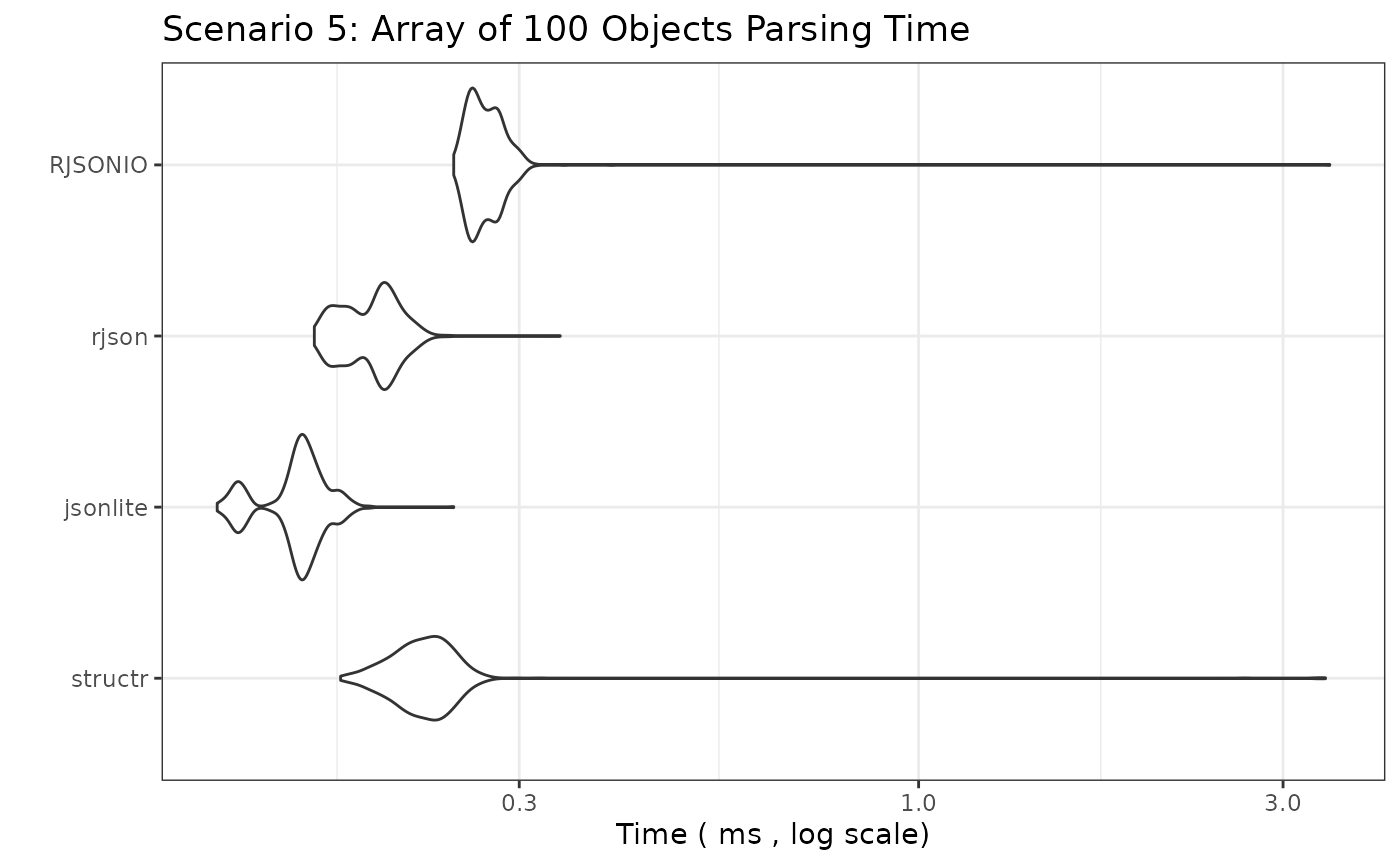
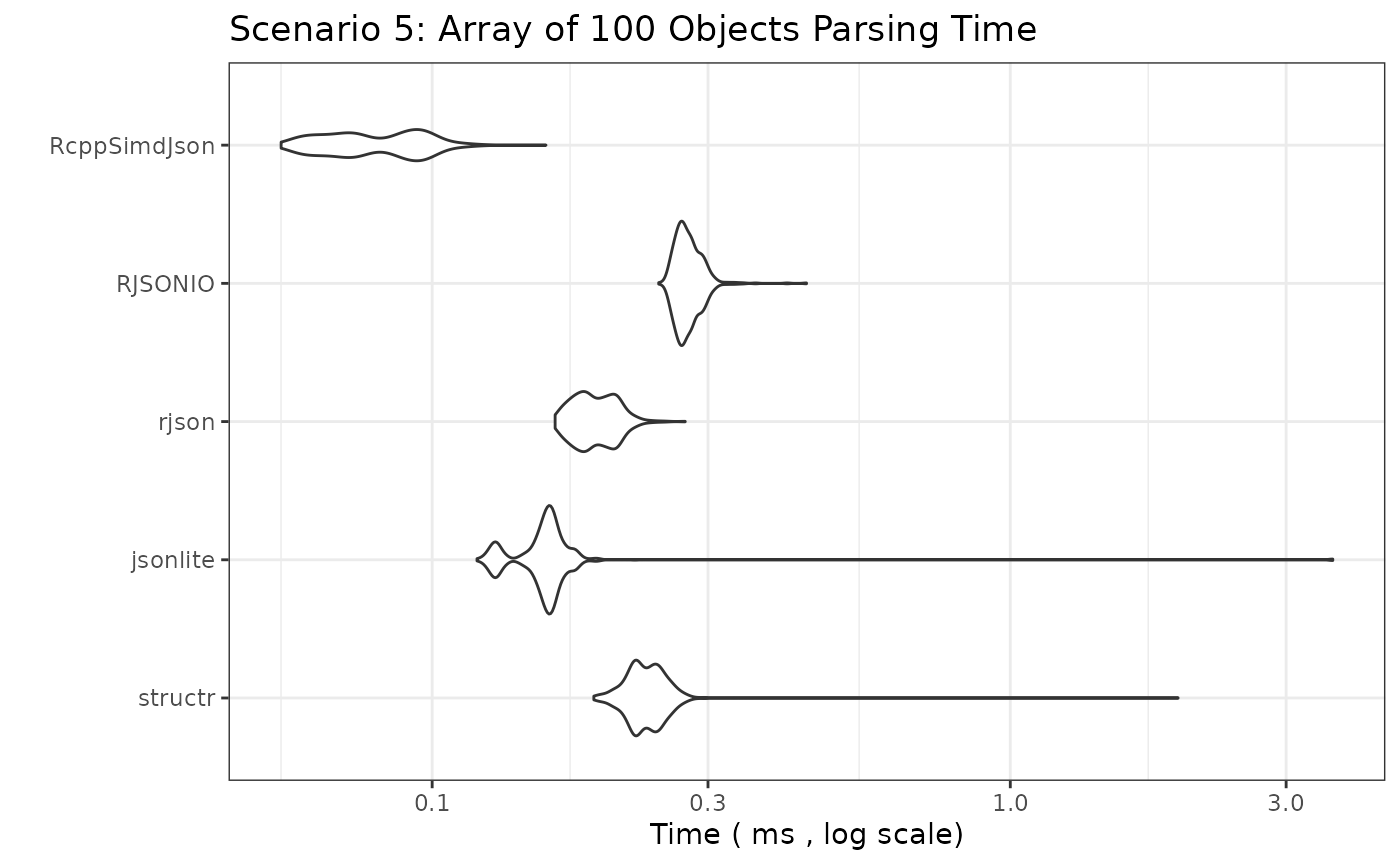
Deploying to gh-pages from @ ixpantia/structr@df5ad7ff1a682a92d8cae94fbe40ca63a35b29c2 🚀

diff --git a/articles/bench.html b/articles/bench.html
@@ -148,6 +148,7 @@ speed.</p>
 <span>  jsonlite <span class="op">=</span> <span class="fu">jsonlite</span><span class="fu">::</span><span class="fu"><a href="https://jeroen.r-universe.dev/jsonlite/reference/fromJSON.html" class="external-link">fromJSON</a></span><span class="op">(</span><span class="va">json_simple_object</span>, simplifyDataFrame <span class="op">=</span> <span class="cn">FALSE</span><span class="op">)</span>,</span>
 <span>  rjson <span class="op">=</span> <span class="fu">rjson</span><span class="fu">::</span><span class="fu"><a href="https://rdrr.io/pkg/rjson/man/fromJSON.html" class="external-link">fromJSON</a></span><span class="op">(</span><span class="va">json_simple_object</span><span class="op">)</span>,</span>
 <span>  RJSONIO <span class="op">=</span> <span class="fu">RJSONIO</span><span class="fu">::</span><span class="fu"><a href="https://rdrr.io/pkg/RJSONIO/man/fromJSON.html" class="external-link">fromJSON</a></span><span class="op">(</span><span class="va">json_simple_object</span>, simplify <span class="op">=</span> <span class="cn">FALSE</span><span class="op">)</span>,</span>
+<span>  RcppSimdJson <span class="op">=</span> <span class="fu">RcppSimdJson</span><span class="fu">::</span><span class="fu"><a href="https://rdrr.io/pkg/RcppSimdJson/man/fparse.html" class="external-link">fparse</a></span><span class="op">(</span><span class="va">json_simple_object</span><span class="op">)</span>,</span>
 <span>  times <span class="op">=</span> <span class="va">benchmark_times_fast</span>, unit <span class="op">=</span> <span class="va">benchmark_unit_fast</span>, check <span class="op">=</span> <span class="st">"equal"</span></span>
 <span><span class="op">)</span></span>
 <span><span class="fu">print_and_plot</span><span class="op">(</span><span class="va">bm_simple_object</span>,</span>
@@ -155,11 +156,12 @@ speed.</p>
 <span>  y_label <span class="op">=</span> <span class="fu"><a href="https://rdrr.io/r/base/paste.html" class="external-link">paste</a></span><span class="op">(</span><span class="st">"Time ("</span>, <span class="va">benchmark_unit_fast</span>, <span class="st">", log scale)"</span><span class="op">)</span></span>
 <span><span class="op">)</span></span></code></pre></div>
 <pre><code><span><span class="co">## Unit: microseconds</span></span>
-<span><span class="co">##      expr    min      lq      mean  median     uq      max neval</span></span>
-<span><span class="co">##   structr  4.649  6.4770  8.395685  8.4410  9.678   29.726  1000</span></span>
-<span><span class="co">##  jsonlite 41.277 47.5690 54.801872 52.1870 60.027  161.010  1000</span></span>
-<span><span class="co">##     rjson 27.993 35.0455 40.290231 39.4890 43.080   91.581  1000</span></span>
-<span><span class="co">##   RJSONIO 33.081 41.1965 48.815744 45.2445 49.793 2596.534  1000</span></span></code></pre>
+<span><span class="co">##          expr    min     lq      mean  median      uq      max neval</span></span>
+<span><span class="co">##       structr  4.899  7.454  9.192114  9.1870 10.2645   38.442  1000</span></span>
+<span><span class="co">##      jsonlite 42.399 51.025 59.962012 54.5110 63.6435 2847.625  1000</span></span>
+<span><span class="co">##         rjson 28.804 36.704 42.250469 41.1210 45.7100  110.446  1000</span></span>
+<span><span class="co">##       RJSONIO 34.715 43.596 49.035002 48.2100 53.1395  127.799  1000</span></span>
+<span><span class="co">##  RcppSimdJson 20.879 27.782 32.505742 31.2435 35.5915   66.213  1000</span></span></code></pre>
 <p><img src="bench_files/figure-html/bm_simple_object-1.png" width="700" style="display: block; margin: auto;"></p>
 </div>
 <div class="section level3">
@@ -171,6 +173,7 @@ speed.</p>
 <span>  jsonlite <span class="op">=</span> <span class="fu">jsonlite</span><span class="fu">::</span><span class="fu"><a href="https://jeroen.r-universe.dev/jsonlite/reference/fromJSON.html" class="external-link">fromJSON</a></span><span class="op">(</span><span class="va">json_simple_array_int</span><span class="op">)</span>, <span class="co"># simplify = TRUE default good here</span></span>
 <span>  rjson <span class="op">=</span> <span class="fu">rjson</span><span class="fu">::</span><span class="fu"><a href="https://rdrr.io/pkg/rjson/man/fromJSON.html" class="external-link">fromJSON</a></span><span class="op">(</span><span class="va">json_simple_array_int</span><span class="op">)</span>,</span>
 <span>  RJSONIO <span class="op">=</span> <span class="fu">RJSONIO</span><span class="fu">::</span><span class="fu"><a href="https://rdrr.io/pkg/RJSONIO/man/fromJSON.html" class="external-link">fromJSON</a></span><span class="op">(</span><span class="va">json_simple_array_int</span><span class="op">)</span>, <span class="co"># simplify = TRUE default good here</span></span>
+<span>  RcppSimdJson <span class="op">=</span> <span class="fu">RcppSimdJson</span><span class="fu">::</span><span class="fu"><a href="https://rdrr.io/pkg/RcppSimdJson/man/fparse.html" class="external-link">fparse</a></span><span class="op">(</span><span class="va">json_simple_array_int</span><span class="op">)</span>,</span>
 <span>  times <span class="op">=</span> <span class="va">benchmark_times_fast</span>, unit <span class="op">=</span> <span class="va">benchmark_unit_fast</span>, check <span class="op">=</span> <span class="st">"equal"</span></span>
 <span><span class="op">)</span></span>
 <span></span>
@@ -179,11 +182,12 @@ speed.</p>
 <span>  y_label <span class="op">=</span> <span class="fu"><a href="https://rdrr.io/r/base/paste.html" class="external-link">paste</a></span><span class="op">(</span><span class="st">"Time ("</span>, <span class="va">benchmark_unit_fast</span>, <span class="st">", log scale)"</span><span class="op">)</span></span>
 <span><span class="op">)</span></span></code></pre></div>
 <pre><code><span><span class="co">## Unit: microseconds</span></span>
-<span><span class="co">##      expr    min      lq      mean  median     uq      max neval</span></span>
-<span><span class="co">##   structr  3.807  5.8860  7.198468  7.3085  8.471   30.096  1000</span></span>
-<span><span class="co">##  jsonlite 31.959 37.0695 41.257056 40.1050 42.584   99.556  1000</span></span>
-<span><span class="co">##     rjson 31.979 36.4380 42.193361 42.3040 44.729  109.765  1000</span></span>
-<span><span class="co">##   RJSONIO 44.343 50.7700 59.598124 54.4110 57.507 3603.843  1000</span></span></code></pre>
+<span><span class="co">##          expr    min      lq      mean  median      uq      max neval</span></span>
+<span><span class="co">##       structr  3.937  5.9410  7.602014  7.6945  8.6560   29.224  1000</span></span>
+<span><span class="co">##      jsonlite 33.182 38.4470 42.046634 41.5980 43.8420  110.086  1000</span></span>
+<span><span class="co">##         rjson 32.020 38.2720 43.332645 43.7065 46.3565  125.154  1000</span></span>
+<span><span class="co">##       RJSONIO 45.365 53.2790 57.743020 57.4830 60.6785  143.798  1000</span></span>
+<span><span class="co">##  RcppSimdJson 21.360 25.9235 32.863819 29.9560 32.0050 3394.946  1000</span></span></code></pre>
 <p><img src="bench_files/figure-html/bm_simple_array_int-1.png" width="700" style="display: block; margin: auto;"></p>
 </div>
 <div class="section level3">
@@ -195,6 +199,7 @@ speed.</p>
 <span>  jsonlite <span class="op">=</span> <span class="fu">jsonlite</span><span class="fu">::</span><span class="fu"><a href="https://jeroen.r-universe.dev/jsonlite/reference/fromJSON.html" class="external-link">fromJSON</a></span><span class="op">(</span><span class="va">json_simple_array_str</span><span class="op">)</span>,</span>
 <span>  rjson <span class="op">=</span> <span class="fu">rjson</span><span class="fu">::</span><span class="fu"><a href="https://rdrr.io/pkg/rjson/man/fromJSON.html" class="external-link">fromJSON</a></span><span class="op">(</span><span class="va">json_simple_array_str</span><span class="op">)</span>,</span>
 <span>  RJSONIO <span class="op">=</span> <span class="fu">RJSONIO</span><span class="fu">::</span><span class="fu"><a href="https://rdrr.io/pkg/RJSONIO/man/fromJSON.html" class="external-link">fromJSON</a></span><span class="op">(</span><span class="va">json_simple_array_str</span><span class="op">)</span>,</span>
+<span>  RcppSimdJson <span class="op">=</span> <span class="fu">RcppSimdJson</span><span class="fu">::</span><span class="fu"><a href="https://rdrr.io/pkg/RcppSimdJson/man/fparse.html" class="external-link">fparse</a></span><span class="op">(</span><span class="va">json_simple_array_str</span><span class="op">)</span>,</span>
 <span>  times <span class="op">=</span> <span class="va">benchmark_times_fast</span>, unit <span class="op">=</span> <span class="va">benchmark_unit_fast</span>, check <span class="op">=</span> <span class="st">"equal"</span></span>
 <span><span class="op">)</span></span>
 <span></span>
@@ -203,11 +208,12 @@ speed.</p>
 <span>  y_label <span class="op">=</span> <span class="fu"><a href="https://rdrr.io/r/base/paste.html" class="external-link">paste</a></span><span class="op">(</span><span class="st">"Time ("</span>, <span class="va">benchmark_unit_fast</span>, <span class="st">", log scale)"</span><span class="op">)</span></span>
 <span><span class="op">)</span></span></code></pre></div>
 <pre><code><span><span class="co">## Unit: microseconds</span></span>
-<span><span class="co">##      expr    min      lq      mean  median      uq      max neval</span></span>
-<span><span class="co">##   structr  4.268  5.8410  7.034094  7.0930  8.0750   27.782  1000</span></span>
-<span><span class="co">##  jsonlite 24.516 28.0275 31.663562 31.8290 33.4170   80.381  1000</span></span>
-<span><span class="co">##     rjson 28.433 32.0850 37.249660 37.7850 40.4955  111.187  1000</span></span>
-<span><span class="co">##   RJSONIO 38.883 43.0300 51.376313 47.8845 51.1305 3121.624  1000</span></span></code></pre>
+<span><span class="co">##          expr    min      lq      mean  median      uq      max neval</span></span>
+<span><span class="co">##       structr  4.168  6.1820  7.447508  7.5695  8.5610   27.592  1000</span></span>
+<span><span class="co">##      jsonlite 25.678 30.7525 33.796142 33.7730 35.7420   75.942  1000</span></span>
+<span><span class="co">##         rjson 29.916 36.0470 39.912853 40.1700 42.6600  123.561  1000</span></span>
+<span><span class="co">##       RJSONIO 40.135 48.1550 52.213798 51.9475 54.7625  153.215  1000</span></span>
+<span><span class="co">##  RcppSimdJson 21.350 26.3035 33.103361 29.8655 32.0300 3300.308  1000</span></span></code></pre>
 <p><img src="bench_files/figure-html/bm_simple_array_str-1.png" width="700" style="display: block; margin: auto;"></p>
 </div>
 <div class="section level3">
@@ -220,6 +226,7 @@ speed.</p>
 <span>    jsonlite <span class="op">=</span> <span class="fu">jsonlite</span><span class="fu">::</span><span class="fu"><a href="https://jeroen.r-universe.dev/jsonlite/reference/fromJSON.html" class="external-link">fromJSON</a></span><span class="op">(</span><span class="va">json_nested_object</span>, simplifyVector <span class="op">=</span> <span class="cn">FALSE</span><span class="op">)</span>,</span>
 <span>    rjson <span class="op">=</span> <span class="fu">rjson</span><span class="fu">::</span><span class="fu"><a href="https://rdrr.io/pkg/rjson/man/fromJSON.html" class="external-link">fromJSON</a></span><span class="op">(</span><span class="va">json_nested_object</span><span class="op">)</span>,</span>
 <span>    RJSONIO <span class="op">=</span> <span class="fu">RJSONIO</span><span class="fu">::</span><span class="fu"><a href="https://rdrr.io/pkg/RJSONIO/man/fromJSON.html" class="external-link">fromJSON</a></span><span class="op">(</span><span class="va">json_nested_object</span>, simplify <span class="op">=</span> <span class="cn">FALSE</span><span class="op">)</span>, <span class="co"># avoid matrix/df conversion</span></span>
+<span>    RcppSimdJson <span class="op">=</span> <span class="fu">RcppSimdJson</span><span class="fu">::</span><span class="fu"><a href="https://rdrr.io/pkg/RcppSimdJson/man/fparse.html" class="external-link">fparse</a></span><span class="op">(</span><span class="va">json_nested_object</span><span class="op">)</span>,</span>
 <span>    times <span class="op">=</span> <span class="va">benchmark_times_fast</span>, unit <span class="op">=</span> <span class="va">benchmark_unit_fast</span>, check <span class="op">=</span> <span class="cn">NULL</span> <span class="co"># Disable check due to potential minor diffs</span></span>
 <span>  <span class="op">)</span></span>
 <span></span>
@@ -228,11 +235,12 @@ speed.</p>
 <span>  y_label <span class="op">=</span> <span class="fu"><a href="https://rdrr.io/r/base/paste.html" class="external-link">paste</a></span><span class="op">(</span><span class="st">"Time ("</span>, <span class="va">benchmark_unit_fast</span>, <span class="st">", log scale)"</span><span class="op">)</span></span>
 <span><span class="op">)</span></span></code></pre></div>
 <pre><code><span><span class="co">## Unit: microseconds</span></span>
-<span><span class="co">##      expr    min      lq     mean  median     uq      max neval</span></span>
-<span><span class="co">##   structr 16.341 21.2650 24.43637 24.3905 26.349   73.718  1000</span></span>
-<span><span class="co">##  jsonlite 25.708 32.3155 36.77939 36.5680 38.912   73.006  1000</span></span>
-<span><span class="co">##     rjson 40.366 48.2750 54.99315 54.4270 57.833  117.209  1000</span></span>
-<span><span class="co">##   RJSONIO 53.760 61.6045 70.49977 65.7575 69.961 2861.799  1000</span></span></code></pre>
+<span><span class="co">##          expr    min      lq     mean  median      uq      max neval</span></span>
+<span><span class="co">##       structr 17.182 22.6925 25.59093 25.8335 27.6420   65.082  1000</span></span>
+<span><span class="co">##      jsonlite 26.309 33.3825 37.42539 37.1945 39.7240   74.660  1000</span></span>
+<span><span class="co">##         rjson 41.637 50.4490 59.35239 56.2650 60.1375 3142.535  1000</span></span>
+<span><span class="co">##       RJSONIO 54.912 64.5860 70.49367 69.6800 74.1590  182.951  1000</span></span>
+<span><span class="co">##  RcppSimdJson 28.844 36.5985 42.21154 42.6845 45.8955  131.105  1000</span></span></code></pre>
 <p><img src="bench_files/figure-html/bm_nested_object-1.png" width="700" style="display: block; margin: auto;"></p>
 </div>
 <div class="section level3">
@@ -245,18 +253,20 @@ speed.</p>
 <span>    jsonlite <span class="op">=</span> <span class="fu">jsonlite</span><span class="fu">::</span><span class="fu"><a href="https://jeroen.r-universe.dev/jsonlite/reference/fromJSON.html" class="external-link">fromJSON</a></span><span class="op">(</span><span class="va">json_array_of_objects</span>, simplifyVector <span class="op">=</span> <span class="cn">FALSE</span>, simplifyDataFrame <span class="op">=</span> <span class="cn">FALSE</span><span class="op">)</span>, <span class="co"># Force list output</span></span>
 <span>    rjson <span class="op">=</span> <span class="fu">rjson</span><span class="fu">::</span><span class="fu"><a href="https://rdrr.io/pkg/rjson/man/fromJSON.html" class="external-link">fromJSON</a></span><span class="op">(</span><span class="va">json_array_of_objects</span><span class="op">)</span>,</span>
 <span>    RJSONIO <span class="op">=</span> <span class="fu">RJSONIO</span><span class="fu">::</span><span class="fu"><a href="https://rdrr.io/pkg/RJSONIO/man/fromJSON.html" class="external-link">fromJSON</a></span><span class="op">(</span><span class="va">json_array_of_objects</span>, simplify <span class="op">=</span> <span class="cn">FALSE</span><span class="op">)</span>, <span class="co"># Results in list of lists</span></span>
-<span>    times <span class="op">=</span> <span class="va">benchmark_times_medium</span>, unit <span class="op">=</span> <span class="va">benchmark_unit_medium</span>, check <span class="op">=</span> <span class="st">"equal"</span></span>
+<span>    RcppSimdJson <span class="op">=</span> <span class="fu">RcppSimdJson</span><span class="fu">::</span><span class="fu"><a href="https://rdrr.io/pkg/RcppSimdJson/man/fparse.html" class="external-link">fparse</a></span><span class="op">(</span><span class="va">json_array_of_objects</span><span class="op">)</span>,</span>
+<span>    times <span class="op">=</span> <span class="va">benchmark_times_medium</span>, unit <span class="op">=</span> <span class="va">benchmark_unit_medium</span>, check <span class="op">=</span> <span class="cn">NULL</span></span>
 <span>  <span class="op">)</span></span>
 <span><span class="fu">print_and_plot</span><span class="op">(</span><span class="va">bm_array_of_objects</span>,</span>
 <span>  title <span class="op">=</span> <span class="st">"Scenario 5: Array of 100 Objects Parsing Time"</span>,</span>
 <span>  y_label <span class="op">=</span> <span class="fu"><a href="https://rdrr.io/r/base/paste.html" class="external-link">paste</a></span><span class="op">(</span><span class="st">"Time ("</span>, <span class="va">benchmark_unit_medium</span>, <span class="st">", log scale)"</span><span class="op">)</span></span>
 <span><span class="op">)</span></span></code></pre></div>
 <pre><code><span><span class="co">## Unit: milliseconds</span></span>
-<span><span class="co">##      expr      min        lq      mean    median        uq      max neval</span></span>
-<span><span class="co">##   structr 0.175087 0.2106885 0.2419952 0.2253005 0.2386860 3.409662   500</span></span>
-<span><span class="co">##  jsonlite 0.120685 0.1495185 0.1538387 0.1557910 0.1615565 0.246229   500</span></span>
-<span><span class="co">##     rjson 0.161752 0.1772310 0.1921014 0.1957400 0.2037255 0.339450   500</span></span>
-<span><span class="co">##   RJSONIO 0.246229 0.2596740 0.2775724 0.2684360 0.2809540 3.453713   500</span></span></code></pre>
+<span><span class="co">##          expr      min        lq       mean    median        uq      max neval</span></span>
+<span><span class="co">##       structr 0.190395 0.2228010 0.23824712 0.2333955 0.2468710 1.950821   500</span></span>
+<span><span class="co">##      jsonlite 0.119553 0.1506865 0.16896090 0.1581960 0.1632040 3.612822   500</span></span>
+<span><span class="co">##         rjson 0.163185 0.1785780 0.19213523 0.1903455 0.2051480 0.273982   500</span></span>
+<span><span class="co">##       RJSONIO 0.246510 0.2670930 0.27798624 0.2745125 0.2857430 0.444159   500</span></span>
+<span><span class="co">##  RcppSimdJson 0.054793 0.0670700 0.08055183 0.0769390 0.0937795 0.157353   500</span></span></code></pre>
 <p><img src="bench_files/figure-html/bm_array_of_objects-1.png" width="700" style="display: block; margin: auto;"></p>
 </div>
 <div class="section level3">
@@ -269,9 +279,10 @@ speed.</p>
 <span>    jsonlite <span class="op">=</span> <span class="fu">jsonlite</span><span class="fu">::</span><span class="fu"><a href="https://jeroen.r-universe.dev/jsonlite/reference/fromJSON.html" class="external-link">fromJSON</a></span><span class="op">(</span><span class="va">json_large_array_of_objects</span>, simplifyVector <span class="op">=</span> <span class="cn">FALSE</span>, simplifyDataFrame <span class="op">=</span> <span class="cn">FALSE</span><span class="op">)</span>,</span>
 <span>    rjson <span class="op">=</span> <span class="fu">rjson</span><span class="fu">::</span><span class="fu"><a href="https://rdrr.io/pkg/rjson/man/fromJSON.html" class="external-link">fromJSON</a></span><span class="op">(</span><span class="va">json_large_array_of_objects</span><span class="op">)</span>,</span>
 <span>    RJSONIO <span class="op">=</span> <span class="fu">RJSONIO</span><span class="fu">::</span><span class="fu"><a href="https://rdrr.io/pkg/RJSONIO/man/fromJSON.html" class="external-link">fromJSON</a></span><span class="op">(</span><span class="va">json_large_array_of_objects</span>, simplify <span class="op">=</span> <span class="cn">FALSE</span><span class="op">)</span>,</span>
+<span>    RcppSimdJson <span class="op">=</span> <span class="fu">RcppSimdJson</span><span class="fu">::</span><span class="fu"><a href="https://rdrr.io/pkg/RcppSimdJson/man/fparse.html" class="external-link">fparse</a></span><span class="op">(</span><span class="va">json_large_array_of_objects</span><span class="op">)</span>,</span>
 <span>    times <span class="op">=</span> <span class="va">benchmark_times_medium</span>,</span>
 <span>    unit <span class="op">=</span> <span class="va">benchmark_unit_medium</span>,</span>
-<span>    check <span class="op">=</span> <span class="st">"equal"</span> <span class="co"># Disable check</span></span>
+<span>    check <span class="op">=</span> <span class="cn">NULL</span> <span class="co"># Disable check</span></span>
 <span>  <span class="op">)</span></span>
 <span></span>
 <span><span class="fu">print_and_plot</span><span class="op">(</span><span class="va">bm_large_array_of_objects</span>,</span>
@@ -279,11 +290,12 @@ speed.</p>
 <span>  y_label <span class="op">=</span> <span class="fu"><a href="https://rdrr.io/r/base/paste.html" class="external-link">paste</a></span><span class="op">(</span><span class="st">"Time ("</span>, <span class="va">benchmark_unit_medium</span>, <span class="st">", log scale)"</span><span class="op">)</span></span>
 <span><span class="op">)</span></span></code></pre></div>
 <pre><code><span><span class="co">## Unit: milliseconds</span></span>
-<span><span class="co">##      expr      min       lq     mean   median       uq       max neval</span></span>
-<span><span class="co">##   structr 1.947503 2.250394 2.386582 2.319848 2.443223  6.454091   500</span></span>
-<span><span class="co">##  jsonlite 1.368383 1.397242 1.493211 1.420866 1.529540  5.536219   500</span></span>
-<span><span class="co">##     rjson 1.331274 1.378527 1.570004 1.410121 1.577103 10.269069   500</span></span>
-<span><span class="co">##   RJSONIO 2.008166 2.141761 2.249032 2.157755 2.331380  5.964568   500</span></span></code></pre>
+<span><span class="co">##          expr      min       lq      mean   median        uq       max neval</span></span>
+<span><span class="co">##       structr 2.152086 2.398340 2.6086492 2.511277 2.6441995 11.037206   500</span></span>
+<span><span class="co">##      jsonlite 1.381969 1.425505 1.5358536 1.461287 1.5505235  7.065805   500</span></span>
+<span><span class="co">##         rjson 1.360268 1.407532 1.5863846 1.440888 1.5403140 13.555296   500</span></span>
+<span><span class="co">##       RJSONIO 2.017324 2.187096 2.2980437 2.207324 2.2838425  8.475857   500</span></span>
+<span><span class="co">##  RcppSimdJson 0.330447 0.353275 0.4157574 0.375155 0.4127005  0.699966   500</span></span></code></pre>
 <p><img src="bench_files/figure-html/bm_large_array_of_objects-1.png" width="700" style="display: block; margin: auto;"></p>
 </div>
 <div class="section level3">
@@ -296,6 +308,7 @@ speed.</p>
 <span>    jsonlite <span class="op">=</span> <span class="fu">jsonlite</span><span class="fu">::</span><span class="fu"><a href="https://jeroen.r-universe.dev/jsonlite/reference/fromJSON.html" class="external-link">fromJSON</a></span><span class="op">(</span><span class="va">json_large_array_int</span><span class="op">)</span>,</span>
 <span>    rjson <span class="op">=</span> <span class="fu">rjson</span><span class="fu">::</span><span class="fu"><a href="https://rdrr.io/pkg/rjson/man/fromJSON.html" class="external-link">fromJSON</a></span><span class="op">(</span><span class="va">json_large_array_int</span><span class="op">)</span>,</span>
 <span>    RJSONIO <span class="op">=</span> <span class="fu">RJSONIO</span><span class="fu">::</span><span class="fu"><a href="https://rdrr.io/pkg/RJSONIO/man/fromJSON.html" class="external-link">fromJSON</a></span><span class="op">(</span><span class="va">json_large_array_int</span><span class="op">)</span>,</span>
+<span>    RcppSimdJson <span class="op">=</span> <span class="fu">RcppSimdJson</span><span class="fu">::</span><span class="fu"><a href="https://rdrr.io/pkg/RcppSimdJson/man/fparse.html" class="external-link">fparse</a></span><span class="op">(</span><span class="va">json_large_array_int</span><span class="op">)</span>,</span>
 <span>    times <span class="op">=</span> <span class="va">benchmark_times_medium</span>,</span>
 <span>    unit <span class="op">=</span> <span class="va">benchmark_unit_medium</span>,</span>
 <span>    check <span class="op">=</span> <span class="st">"equal"</span></span>
@@ -305,11 +318,12 @@ speed.</p>
 <span>  y_label <span class="op">=</span> <span class="fu"><a href="https://rdrr.io/r/base/paste.html" class="external-link">paste</a></span><span class="op">(</span><span class="st">"Time ("</span>, <span class="va">benchmark_unit_medium</span>, <span class="st">", log scale)"</span><span class="op">)</span></span>
 <span><span class="op">)</span></span></code></pre></div>
 <pre><code><span><span class="co">## Unit: milliseconds</span></span>
-<span><span class="co">##      expr      min       lq      mean   median       uq      max neval</span></span>
-<span><span class="co">##   structr 0.188993 0.193987 0.2085216 0.201326 0.222776 0.338812   500</span></span>
-<span><span class="co">##  jsonlite 2.470499 2.627267 2.7925804 2.694943 2.764498 9.652027   500</span></span>
-<span><span class="co">##     rjson 1.046262 1.067902 1.1576628 1.083326 1.108593 4.726378   500</span></span>
-<span><span class="co">##   RJSONIO 2.505254 2.540329 2.6257726 2.554791 2.577640 6.954906   500</span></span></code></pre>
+<span><span class="co">##          expr      min        lq      mean    median        uq       max neval</span></span>
+<span><span class="co">##       structr 0.188091 0.1969975 0.2115499 0.2035550 0.2262920  0.345995   500</span></span>
+<span><span class="co">##      jsonlite 2.370985 2.6537825 2.8519514 2.7527370 2.8374055  7.422822   500</span></span>
+<span><span class="co">##         rjson 1.054868 1.0819940 1.2088789 1.0966115 1.1247190 12.316904   500</span></span>
+<span><span class="co">##       RJSONIO 2.555058 2.5951530 2.6592767 2.6150400 2.6493690  7.498032   500</span></span>
+<span><span class="co">##  RcppSimdJson 0.190225 0.2030890 0.2219051 0.2122465 0.2383655  0.358719   500</span></span></code></pre>
 <p><img src="bench_files/figure-html/bm_large_array_int-1.png" width="700" style="display: block; margin: auto;"></p>
 </div>
 <div class="section level3">
@@ -322,6 +336,7 @@ speed.</p>
 <span>    jsonlite <span class="op">=</span> <span class="fu">jsonlite</span><span class="fu">::</span><span class="fu"><a href="https://jeroen.r-universe.dev/jsonlite/reference/fromJSON.html" class="external-link">fromJSON</a></span><span class="op">(</span><span class="va">json_large_array_str</span><span class="op">)</span>,</span>
 <span>    rjson <span class="op">=</span> <span class="fu">rjson</span><span class="fu">::</span><span class="fu"><a href="https://rdrr.io/pkg/rjson/man/fromJSON.html" class="external-link">fromJSON</a></span><span class="op">(</span><span class="va">json_large_array_str</span><span class="op">)</span>,</span>
 <span>    RJSONIO <span class="op">=</span> <span class="fu">RJSONIO</span><span class="fu">::</span><span class="fu"><a href="https://rdrr.io/pkg/RJSONIO/man/fromJSON.html" class="external-link">fromJSON</a></span><span class="op">(</span><span class="va">json_large_array_str</span><span class="op">)</span>,</span>
+<span>    RcppSimdJson <span class="op">=</span> <span class="fu">RcppSimdJson</span><span class="fu">::</span><span class="fu"><a href="https://rdrr.io/pkg/RcppSimdJson/man/fparse.html" class="external-link">fparse</a></span><span class="op">(</span><span class="va">json_large_array_str</span><span class="op">)</span>,</span>
 <span>    times <span class="op">=</span> <span class="va">benchmark_times_medium</span>,</span>
 <span>    unit <span class="op">=</span> <span class="va">benchmark_unit_medium</span>,</span>
 <span>    check <span class="op">=</span> <span class="st">"equal"</span></span>
@@ -331,11 +346,12 @@ speed.</p>
 <span>  y_label <span class="op">=</span> <span class="fu"><a href="https://rdrr.io/r/base/paste.html" class="external-link">paste</a></span><span class="op">(</span><span class="st">"Time ("</span>, <span class="va">benchmark_unit_medium</span>, <span class="st">", log scale)"</span><span class="op">)</span></span>
 <span><span class="op">)</span></span></code></pre></div>
 <pre><code><span><span class="co">## Unit: milliseconds</span></span>
-<span><span class="co">##      expr      min       lq      mean   median        uq       max neval</span></span>
-<span><span class="co">##   structr 0.681782 0.698719 0.7212037 0.713271 0.7383825  1.130850   500</span></span>
-<span><span class="co">##  jsonlite 2.235501 2.327653 2.4461236 2.395059 2.4672775  5.893465   500</span></span>
-<span><span class="co">##     rjson 1.345330 1.369525 1.6245735 1.400257 1.4221335 77.774182   500</span></span>
-<span><span class="co">##   RJSONIO 3.416083 3.458197 3.5595576 3.482142 3.5075890  7.231542   500</span></span></code></pre>
+<span><span class="co">##          expr      min        lq      mean   median       uq       max neval</span></span>
+<span><span class="co">##       structr 0.678697 0.6969955 0.7180350 0.707971 0.735342  0.995989   500</span></span>
+<span><span class="co">##      jsonlite 2.264105 2.4071720 2.6127171 2.523494 2.662444  7.775149   500</span></span>
+<span><span class="co">##         rjson 1.321045 1.3467430 1.4469878 1.374610 1.408038  6.642807   500</span></span>
+<span><span class="co">##       RJSONIO 3.487628 3.5259000 3.6823692 3.556998 3.595149 12.227528   500</span></span>
+<span><span class="co">##  RcppSimdJson 0.642259 0.6629230 0.6907722 0.679768 0.711623  1.058215   500</span></span></code></pre>
 <p><img src="bench_files/figure-html/bm_large_array_str-1.png" width="700" style="display: block; margin: auto;"></p>
 </div>
 <div class="section level3">
@@ -347,6 +363,7 @@ speed.</p>
 <span>  jsonlite <span class="op">=</span> <span class="fu">jsonlite</span><span class="fu">::</span><span class="fu"><a href="https://jeroen.r-universe.dev/jsonlite/reference/fromJSON.html" class="external-link">fromJSON</a></span><span class="op">(</span><span class="va">json_deep_nest</span>, simplifyVector <span class="op">=</span> <span class="cn">FALSE</span>, simplifyDataFrame <span class="op">=</span> <span class="cn">FALSE</span><span class="op">)</span>,</span>
 <span>  rjson <span class="op">=</span> <span class="fu">rjson</span><span class="fu">::</span><span class="fu"><a href="https://rdrr.io/pkg/rjson/man/fromJSON.html" class="external-link">fromJSON</a></span><span class="op">(</span><span class="va">json_deep_nest</span><span class="op">)</span>,</span>
 <span>  RJSONIO <span class="op">=</span> <span class="fu">RJSONIO</span><span class="fu">::</span><span class="fu"><a href="https://rdrr.io/pkg/RJSONIO/man/fromJSON.html" class="external-link">fromJSON</a></span><span class="op">(</span><span class="va">json_deep_nest</span>, simplify <span class="op">=</span> <span class="cn">FALSE</span><span class="op">)</span>,</span>
+<span>  RcppSimdJson <span class="op">=</span> <span class="fu">RcppSimdJson</span><span class="fu">::</span><span class="fu"><a href="https://rdrr.io/pkg/RcppSimdJson/man/fparse.html" class="external-link">fparse</a></span><span class="op">(</span><span class="va">json_deep_nest</span><span class="op">)</span>,</span>
 <span>  times <span class="op">=</span> <span class="va">benchmark_times_fast</span>,</span>
 <span>  unit <span class="op">=</span> <span class="va">benchmark_unit_fast</span>,</span>
 <span>  check <span class="op">=</span> <span class="st">"equal"</span></span>
@@ -356,11 +373,12 @@ speed.</p>
 <span>  y_label <span class="op">=</span> <span class="fu"><a href="https://rdrr.io/r/base/paste.html" class="external-link">paste</a></span><span class="op">(</span><span class="st">"Time ("</span>, <span class="va">benchmark_unit_fast</span>, <span class="st">", log scale)"</span><span class="op">)</span></span>
 <span><span class="op">)</span></span></code></pre></div>
 <pre><code><span><span class="co">## Unit: microseconds</span></span>
-<span><span class="co">##      expr    min     lq     mean  median      uq      max neval</span></span>
-<span><span class="co">##   structr 12.373 14.477 16.95470 16.7310 18.1685   49.522  1000</span></span>
-<span><span class="co">##  jsonlite 16.110 18.745 25.68532 21.9960 23.6240 3429.238  1000</span></span>
-<span><span class="co">##     rjson 28.674 34.054 39.57854 39.0170 41.7680  108.823  1000</span></span>
-<span><span class="co">##   RJSONIO 36.939 42.299 48.10787 46.7225 49.6825  123.510  1000</span></span></code></pre>
+<span><span class="co">##          expr    min      lq     mean  median      uq      max neval</span></span>
+<span><span class="co">##       structr 13.345 16.5555 18.33186 18.3640 19.5865   43.411  1000</span></span>
+<span><span class="co">##      jsonlite 17.523 20.7285 23.47486 23.3840 24.9120   77.855  1000</span></span>
+<span><span class="co">##         rjson 30.557 36.3530 45.14336 41.0320 43.5510 4354.416  1000</span></span>
+<span><span class="co">##       RJSONIO 38.973 46.3265 50.49376 50.4445 53.1045  136.164  1000</span></span>
+<span><span class="co">##  RcppSimdJson 23.775 28.7590 32.25526 32.2755 34.3790   75.952  1000</span></span></code></pre>
 <p><img src="bench_files/figure-html/bm_deep_nest-1.png" width="700" style="display: block; margin: auto;"></p>
 </div>
 <div class="section level3">
@@ -372,6 +390,7 @@ speed.</p>
 <span>  jsonlite <span class="op">=</span> <span class="fu">jsonlite</span><span class="fu">::</span><span class="fu"><a href="https://jeroen.r-universe.dev/jsonlite/reference/fromJSON.html" class="external-link">fromJSON</a></span><span class="op">(</span><span class="va">json_wide_object</span>, simplifyVector <span class="op">=</span> <span class="cn">FALSE</span>, simplifyDataFrame <span class="op">=</span> <span class="cn">FALSE</span><span class="op">)</span>,</span>
 <span>  rjson <span class="op">=</span> <span class="fu">rjson</span><span class="fu">::</span><span class="fu"><a href="https://rdrr.io/pkg/rjson/man/fromJSON.html" class="external-link">fromJSON</a></span><span class="op">(</span><span class="va">json_wide_object</span><span class="op">)</span>,</span>
 <span>  RJSONIO <span class="op">=</span> <span class="fu">RJSONIO</span><span class="fu">::</span><span class="fu"><a href="https://rdrr.io/pkg/RJSONIO/man/fromJSON.html" class="external-link">fromJSON</a></span><span class="op">(</span><span class="va">json_wide_object</span>, simplify <span class="op">=</span> <span class="cn">FALSE</span><span class="op">)</span>,</span>
+<span>  RcppSimdJson <span class="op">=</span> <span class="fu">RcppSimdJson</span><span class="fu">::</span><span class="fu"><a href="https://rdrr.io/pkg/RcppSimdJson/man/fparse.html" class="external-link">fparse</a></span><span class="op">(</span><span class="va">json_wide_object</span><span class="op">)</span>,</span>
 <span>  times <span class="op">=</span> <span class="va">benchmark_times_medium</span>,</span>
 <span>  unit <span class="op">=</span> <span class="va">benchmark_unit_medium</span>,</span>
 <span>  check <span class="op">=</span> <span class="st">"equal"</span></span>
@@ -381,11 +400,12 @@ speed.</p>
 <span>  y_label <span class="op">=</span> <span class="fu"><a href="https://rdrr.io/r/base/paste.html" class="external-link">paste</a></span><span class="op">(</span><span class="st">"Time ("</span>, <span class="va">benchmark_unit_medium</span>, <span class="st">", log scale)"</span><span class="op">)</span></span>
 <span><span class="op">)</span></span></code></pre></div>
 <pre><code><span><span class="co">## Unit: milliseconds</span></span>
-<span><span class="co">##      expr      min        lq       mean    median        uq      max neval</span></span>
-<span><span class="co">##   structr 0.054151 0.0631580 0.06815985 0.0679215 0.0709170 0.115736   500</span></span>
-<span><span class="co">##  jsonlite 0.038833 0.0467670 0.05100620 0.0505445 0.0530540 0.095088   500</span></span>
-<span><span class="co">##     rjson 0.061755 0.0695295 0.07605581 0.0762720 0.0799195 0.164908   500</span></span>
-<span><span class="co">##   RJSONIO 0.079397 0.0868220 0.09348636 0.0919770 0.0979530 0.179446   500</span></span></code></pre>
+<span><span class="co">##          expr      min        lq       mean    median        uq      max neval</span></span>
+<span><span class="co">##       structr 0.058739 0.0690240 0.07308728 0.0729510 0.0758865 0.121968   500</span></span>
+<span><span class="co">##      jsonlite 0.038422 0.0499790 0.05396680 0.0533245 0.0563850 0.116868   500</span></span>
+<span><span class="co">##         rjson 0.062787 0.0720245 0.07843663 0.0783110 0.0826695 0.144139   500</span></span>
+<span><span class="co">##       RJSONIO 0.082985 0.0920765 0.10893664 0.0974620 0.1030120 5.324386   500</span></span>
+<span><span class="co">##  RcppSimdJson 0.033773 0.0408665 0.04696561 0.0468020 0.0512050 0.120275   500</span></span></code></pre>
 <p><img src="bench_files/figure-html/bm_wide_object-1.png" width="700" style="display: block; margin: auto;"></p>
 </div>
 </div>

diff --git a/articles/getting_started.html b/articles/getting_started.html
@@ -229,7 +229,7 @@ throws an informative error.</p>
 <span><span class="st">}'</span></span>
 <span><span class="kw"><a href="https://rdrr.io/r/base/try.html" class="external-link">try</a></span><span class="op">(</span><span class="fu"><a href="../reference/parse_json.html">parse_json</a></span><span class="op">(</span><span class="va">json_extra_field</span>, <span class="va">user_structure</span><span class="op">)</span><span class="op">)</span></span>
 <span><span class="co">#&gt; Error in parse_json(json_extra_field, user_structure) : </span></span>
-<span><span class="co">#&gt;   Serde("unknown field `email`, expected one of `id`, `is_active`, `username`") at character 0</span></span>
+<span><span class="co">#&gt;   Serde("unknown field `email`, expected one of `is_active`, `username`, `id`") at character 0</span></span>
 <span></span>
 <span><span class="co"># Error: Invalid JSON syntax</span></span>
 <span><span class="va">json_syntax_error</span> <span class="op">&lt;-</span> <span class="st">'{ "id": 1 '</span> <span class="co"># Missing closing brace</span></span>
